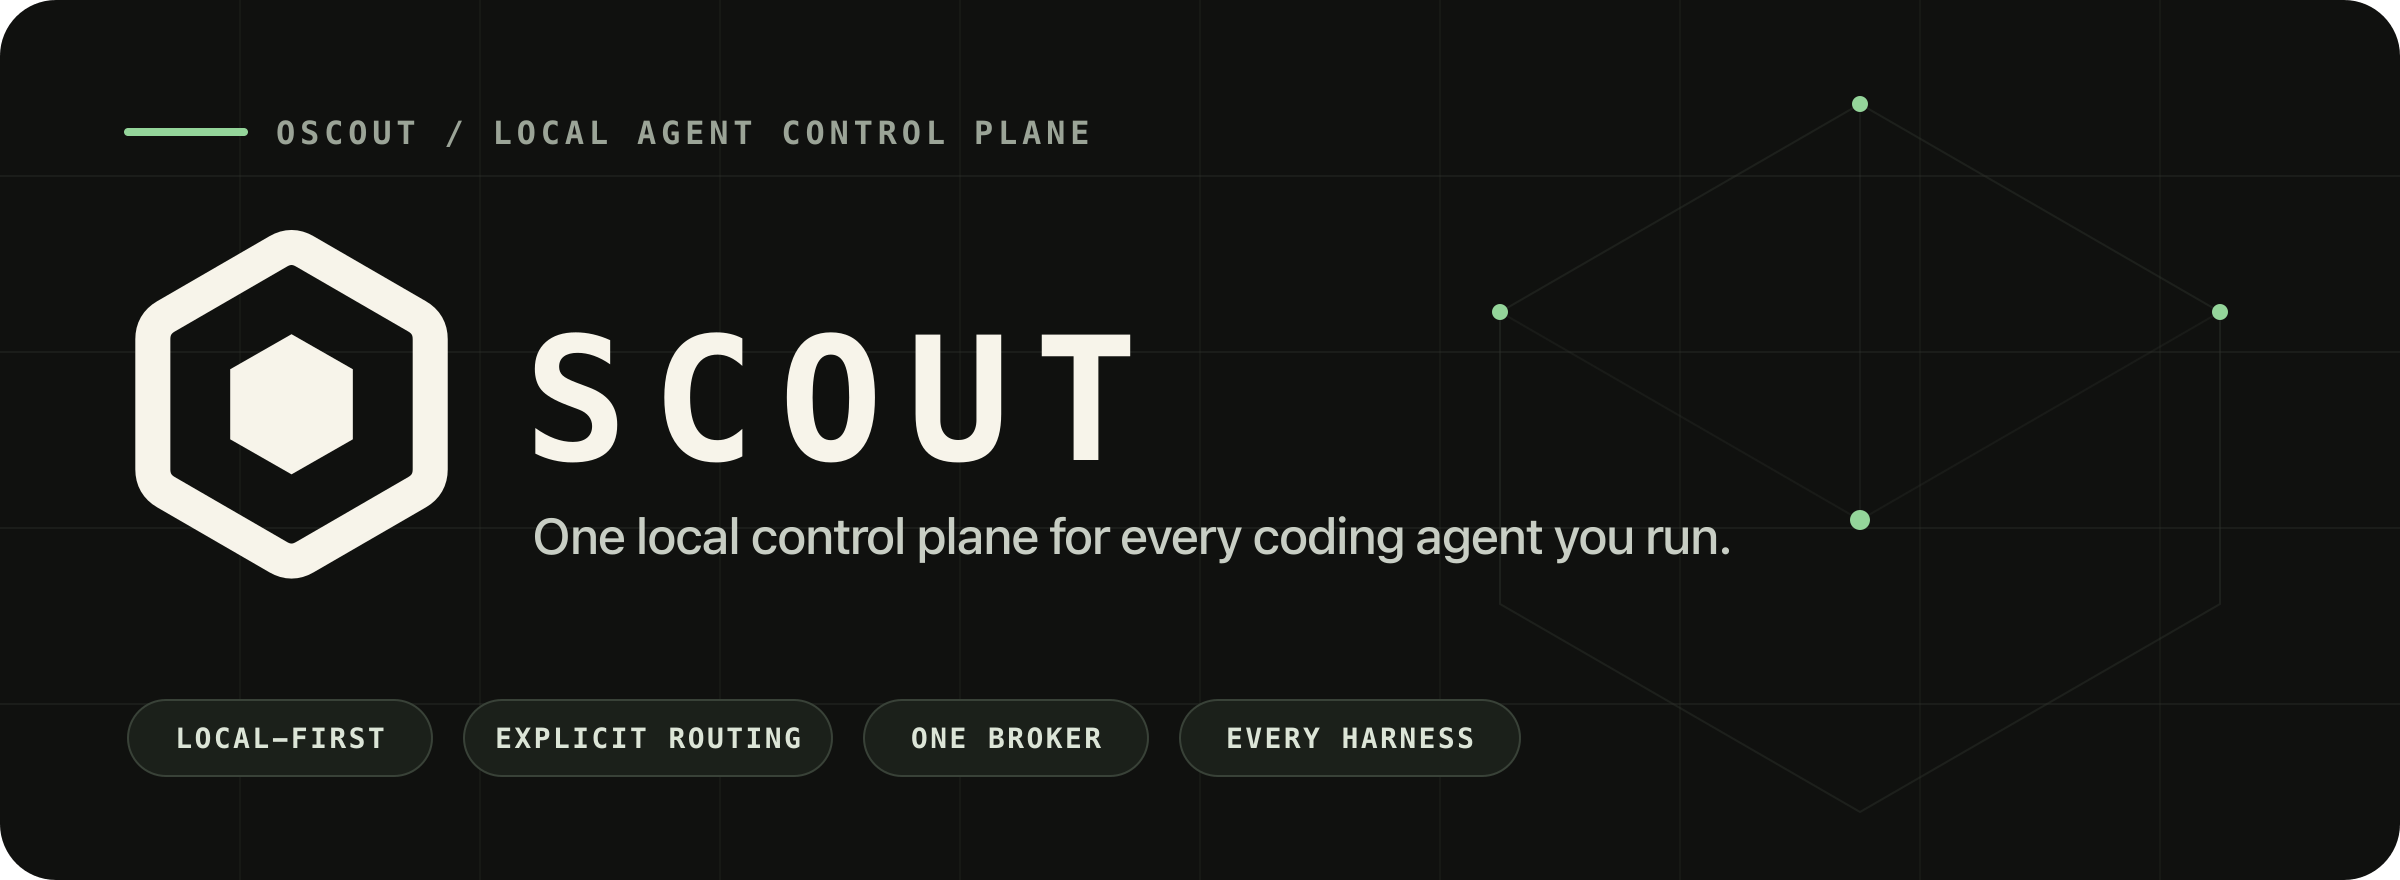
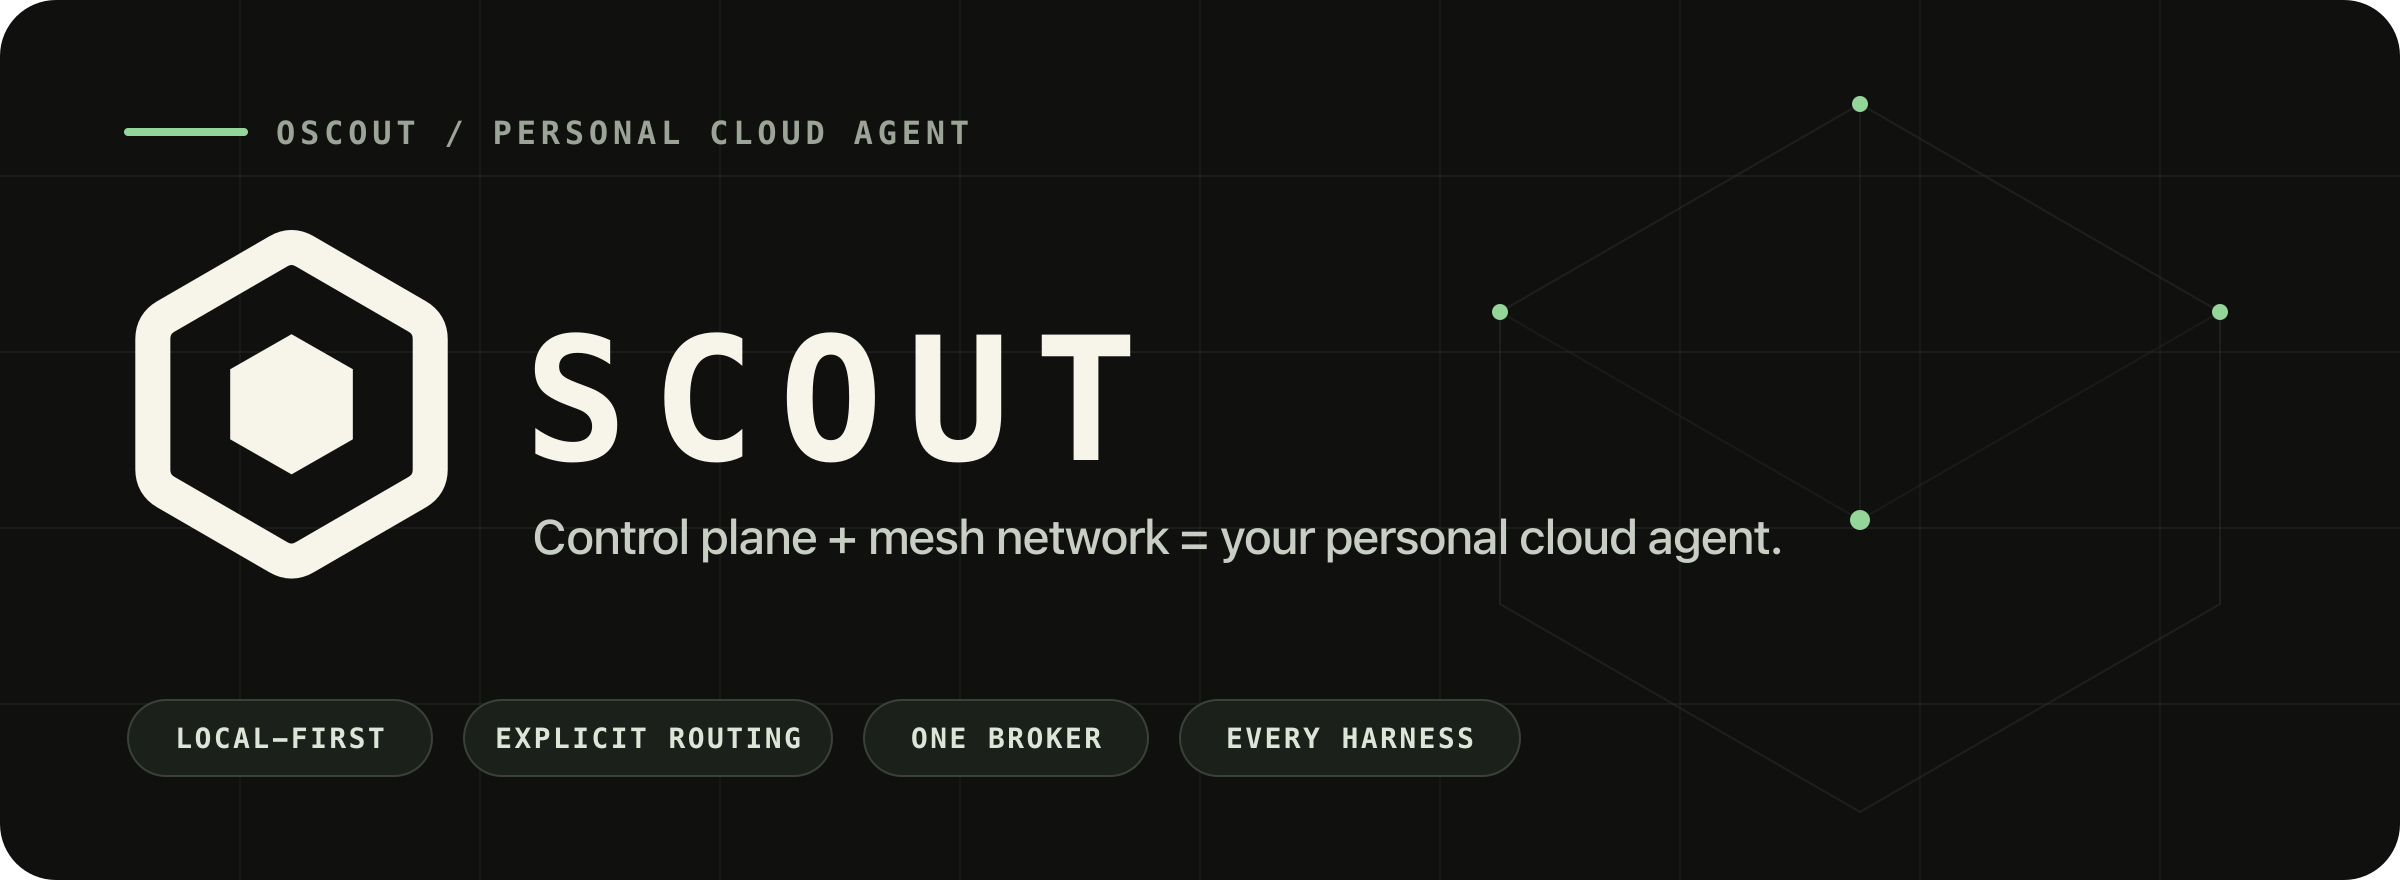
📝 Frame Scout as a personal cloud agent

Changed region(s): [[0.2188, 0.583, 0.75, 0.6443], [0.2188, 0.1227, 0.4688, 0.1841]]

diff --git a/dewey.config.ts b/dewey.config.ts
@@ -7,7 +7,7 @@ const packageMetadata = JSON.parse(
 export default {
   project: {
     name: "Scout",
-    tagline: "One local control plane for every coding agent you run.",
+    tagline: "Your personal cloud agent: a local control plane and mesh network.",
     type: "monorepo",
     version: packageMetadata.version,
   },

diff --git a/README.md b/README.md
@@ -1,10 +1,10 @@
 <p align="center">
-  <img src=".github/assets/readme-hero.svg" alt="Scout — the local control plane for your coding agents" width="100%" />
+  <img src=".github/assets/readme-hero.svg" alt="Scout — your personal cloud agent" width="100%" />
 </p>
 
 <p align="center">
-  <strong>One local control plane for every coding agent you run.</strong><br />
-  Discover sessions, route work, keep durable handoffs, and operate your agent mesh without giving up local ownership.
+  <strong>Your personal cloud agent.</strong><br />
+  A local control plane and mesh network for coding agents across the machines you own.
 </p>
 
 <p align="center">
@@ -18,6 +18,10 @@
 Scout is the CLI, broker, runtime, protocol, and web control surface behind the
 OpenScout agent mesh. It gives Codex, Claude Code, Cursor, Pi, and future
 harnesses one explicit coordination model instead of a pile of one-off relays.
+
+> **Local control plane + mesh network = your personal cloud agent.** Control
+> stays with you while Scout makes sessions reachable and useful across your
+> own machines.
 
 > **Current posture:** Scout is for high-trust local developer pilots. It is
 > not yet a hardened multi-tenant or compliance-ready control plane.

diff --git a/AGENTS.md b/AGENTS.md
@@ -1,6 +1,6 @@
 # Scout
 
-> One local control plane for every coding agent you run.
+> Your personal cloud agent: a local control plane and mesh network.
 
 ## Critical Context
 
@@ -30,6 +30,9 @@ Scout is a local-first control plane for coding agents. It gives operators and
 agents one broker-backed model for identity, routing, durable work, session
 observation, and mesh reachability across harnesses such as Codex and Claude
 Code.
+
+Together, the local control plane and mesh network form a personal cloud agent
+across the machines the operator owns.
 
 ## What Scout owns
 

diff --git a/.github/REPOSITORY_METADATA.md b/.github/REPOSITORY_METADATA.md
@@ -4,7 +4,7 @@ Use these values when configuring `oscout/scout` on GitHub.
 
 | Field | Value |
 | --- | --- |
-| Description | Local-first control plane for discovering, routing, and coordinating coding agents. |
+| Description | Your personal cloud agent: a local control plane and mesh network for coding agents. |
 | Website | `https://oscout.net` |
 | Social preview | `.github/assets/social-preview.png` |
 | Avatar / mark | `.github/assets/avatar.png` |

diff --git a/docs/overview.md b/docs/overview.md
@@ -9,6 +9,9 @@ agents one broker-backed model for identity, routing, durable work, session
 observation, and mesh reachability across harnesses such as Codex and Claude
 Code.
 
+Together, the local control plane and mesh network form a personal cloud agent
+across the machines the operator owns.
+
 ## What Scout owns
 
 The broker is the canonical writer for Scout-owned coordination records:
